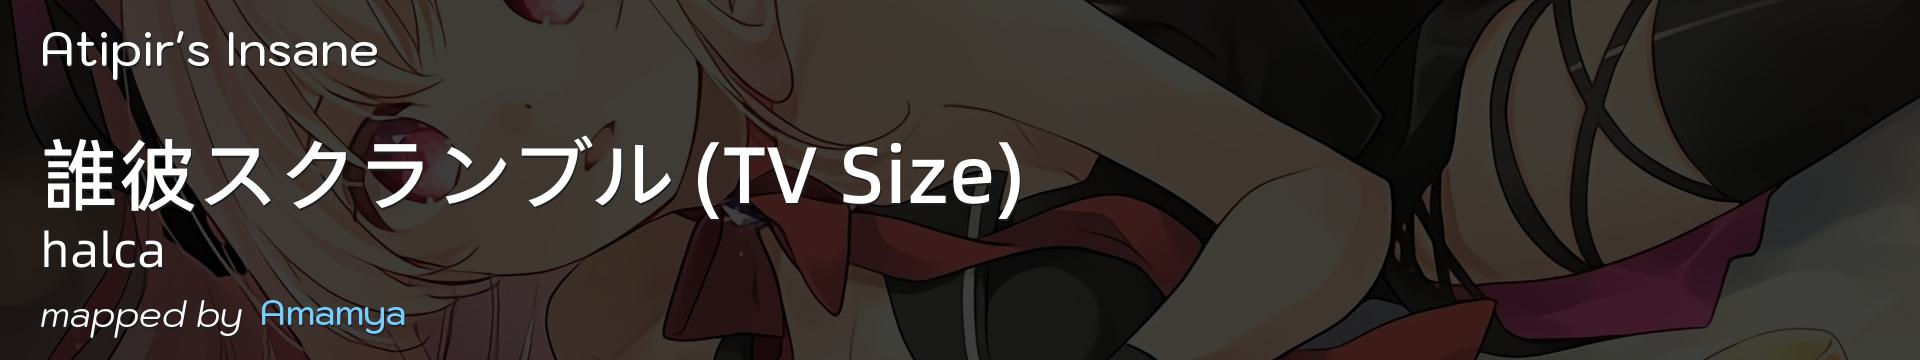
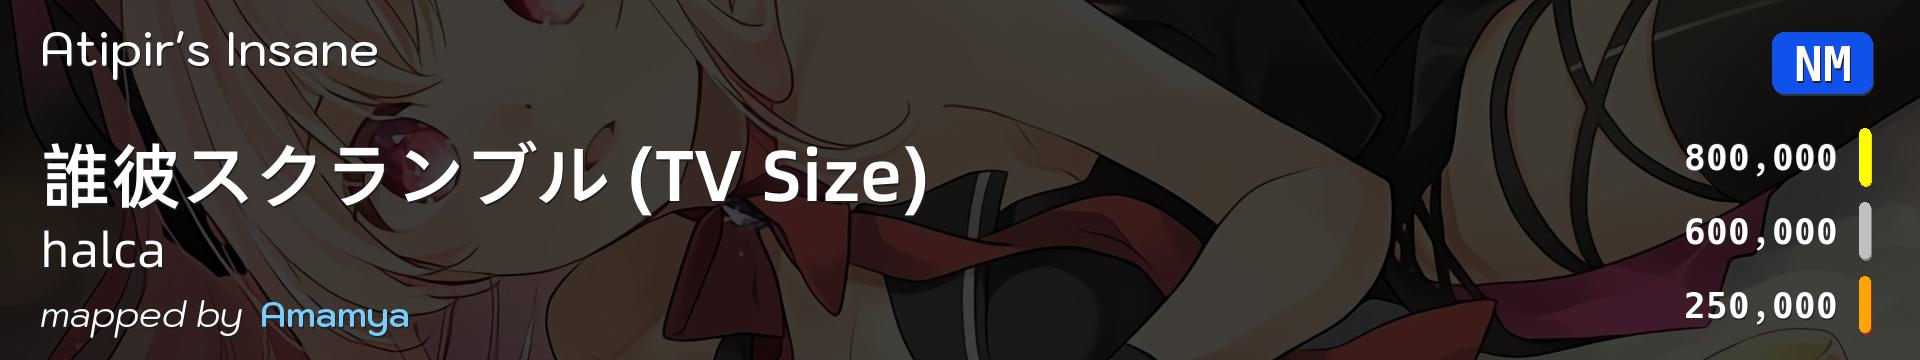
modify style

diff --git a/playlists/2000pp过关.html b/playlists/2000pp过关.html
@@ -1,4 +1,3 @@
-
 <html>
   <head><meta charset="utf-8"><title>2000pp过关</title></head>
   <link rel="stylesheet" type="text/css" href="style.css"/>
@@ -11,16 +10,6 @@
       <th>MODE</th>
       <th>SID</th>
       <th>Beatmap Info</th>
-      <th>Star</th>
-      <th>CS</th>
-      <th>HP</th>
-      <th>AR</th>
-      <th>OD</th>
-      <th>BPM</th>
-      <th>LEN</th>
-      <th>CIR</th>
-      <th>SLD</th>
-      <th>SPN</th>
       <th>NOTES</th>
     </tr>
   </thead>
@@ -30,182 +19,82 @@
       <td>3938363</td>
       <td>osu</td>
       <td>1909442</td>
-      <td><a href="https://osu.ppy.sh/beatmapsets/1909442#osu/3938363"><img src="./2000pp过关-covers/1-3938363.jpg" alt="1-3938363.jpg" height="90"/></a></td>
-      <td>4.47</td>
-      <td>3.8</td>
-      <td>5.0</td>
-      <td>9.0</td>
-      <td>7.5</td>
-      <td>181.00</td>
-      <td>101</td>
-      <td>175</td>
-      <td>169</td>
-      <td>0</td>
-      <td>【综合】</td>
+      <td><a href="https://osu.ppy.sh/beatmapsets/1909442#osu/3938363"><img src="./2000pp过关-covers/1-3938363.jpg" alt="1-3938363.jpg" height="118"/></a></td>
+      <td>综合</td>
     </tr>
     <tr>
       <td>2</td>
       <td>2953158</td>
       <td>osu</td>
       <td>1435128</td>
-      <td><a href="https://osu.ppy.sh/beatmapsets/1435128#osu/2953158"><img src="./2000pp过关-covers/2-2953158.jpg" alt="2-2953158.jpg" height="90"/></a></td>
-      <td>4.58</td>
-      <td>4.3</td>
-      <td>5.5</td>
-      <td>9.0</td>
-      <td>8.0</td>
-      <td>167.00</td>
-      <td>92</td>
-      <td>190</td>
-      <td>120</td>
-      <td>1</td>
-      <td>【综合】</td>
+      <td><a href="https://osu.ppy.sh/beatmapsets/1435128#osu/2953158"><img src="./2000pp过关-covers/2-2953158.jpg" alt="2-2953158.jpg" height="118"/></a></td>
+      <td>综合</td>
     </tr>
     <tr>
       <td>3</td>
       <td>962800</td>
       <td>osu</td>
       <td>444335</td>
-      <td><a href="https://osu.ppy.sh/beatmapsets/444335#osu/962800"><img src="./2000pp过关-covers/3-962800.jpg" alt="3-962800.jpg" height="90"/></a></td>
-      <td>4.87</td>
-      <td>4.0</td>
-      <td>6.5</td>
-      <td>9.0</td>
-      <td>8.0</td>
-      <td>200.00</td>
-      <td>89</td>
-      <td>174</td>
-      <td>185</td>
-      <td>1</td>
-      <td>【跳】</td>
+      <td><a href="https://osu.ppy.sh/beatmapsets/444335#osu/962800"><img src="./2000pp过关-covers/3-962800.jpg" alt="3-962800.jpg" height="118"/></a></td>
+      <td>跳</td>
     </tr>
     <tr>
       <td>4</td>
       <td>580225</td>
       <td>osu</td>
       <td>235477</td>
-      <td><a href="https://osu.ppy.sh/beatmapsets/235477#osu/580225"><img src="./2000pp过关-covers/4-580225.jpg" alt="4-580225.jpg" height="90"/></a></td>
-      <td>4.31</td>
-      <td>4.0</td>
-      <td>6.0</td>
-      <td>8.2</td>
-      <td>7.2</td>
-      <td>128.01</td>
-      <td>312</td>
-      <td>660</td>
-      <td>335</td>
-      <td>1</td>
-      <td>【低BPM爆发】</td>
+      <td><a href="https://osu.ppy.sh/beatmapsets/235477#osu/580225"><img src="./2000pp过关-covers/4-580225.jpg" alt="4-580225.jpg" height="118"/></a></td>
+      <td>低BPM爆发</td>
     </tr>
     <tr>
       <td>5</td>
       <td>677872</td>
       <td>osu</td>
       <td>292301</td>
-      <td><a href="https://osu.ppy.sh/beatmapsets/292301#osu/677872"><img src="./2000pp过关-covers/5-677872.jpg" alt="5-677872.jpg" height="90"/></a></td>
-      <td>4.31</td>
-      <td>4.0</td>
-      <td>6.0</td>
-      <td>9.0</td>
-      <td>7.0</td>
-      <td>200.00</td>
-      <td>233</td>
-      <td>309</td>
-      <td>502</td>
-      <td>2</td>
-      <td>【高BPM爆发】</td>
+      <td><a href="https://osu.ppy.sh/beatmapsets/292301#osu/677872"><img src="./2000pp过关-covers/5-677872.jpg" alt="5-677872.jpg" height="118"/></a></td>
+      <td>高BPM爆发</td>
     </tr>
     <tr>
       <td>6</td>
       <td>3741717</td>
       <td>osu</td>
       <td>1818779</td>
-      <td><a href="https://osu.ppy.sh/beatmapsets/1818779#osu/3741717"><img src="./2000pp过关-covers/6-3741717.jpg" alt="6-3741717.jpg" height="90"/></a></td>
-      <td>4.81</td>
-      <td>4.0</td>
-      <td>5.5</td>
-      <td>9.0</td>
-      <td>7.5</td>
-      <td>177.00</td>
-      <td>91</td>
-      <td>214</td>
-      <td>150</td>
-      <td>2</td>
-      <td>【综合串】</td>
+      <td><a href="https://osu.ppy.sh/beatmapsets/1818779#osu/3741717"><img src="./2000pp过关-covers/6-3741717.jpg" alt="6-3741717.jpg" height="118"/></a></td>
+      <td>综合串</td>
     </tr>
     <tr>
       <td>7</td>
       <td>4419204</td>
       <td>osu</td>
       <td>2104327</td>
-      <td><a href="https://osu.ppy.sh/beatmapsets/2104327#osu/4419204"><img src="./2000pp过关-covers/7-4419204.jpg" alt="7-4419204.jpg" height="90"/></a></td>
-      <td>4.87</td>
-      <td>3.0</td>
-      <td>4.0</td>
-      <td>9.0</td>
-      <td>8.0</td>
-      <td>223.00</td>
-      <td>37</td>
-      <td>99</td>
-      <td>68</td>
-      <td>0</td>
-      <td>【高BPM跳】</td>
+      <td><a href="https://osu.ppy.sh/beatmapsets/2104327#osu/4419204"><img src="./2000pp过关-covers/7-4419204.jpg" alt="7-4419204.jpg" height="118"/></a></td>
+      <td>高BPM跳</td>
     </tr>
     <tr>
       <td>8</td>
       <td>4213971</td>
       <td>osu</td>
       <td>2023140</td>
-      <td><a href="https://osu.ppy.sh/beatmapsets/2023140#osu/4213971"><img src="./2000pp过关-covers/8-4213971.jpg" alt="8-4213971.jpg" height="90"/></a></td>
-      <td>4.49</td>
-      <td>4.0</td>
-      <td>4.5</td>
-      <td>9.0</td>
-      <td>8.0</td>
-      <td>128.00</td>
-      <td>86</td>
-      <td>121</td>
-      <td>190</td>
-      <td>1</td>
-      <td>【light alt/手控】</td>
+      <td><a href="https://osu.ppy.sh/beatmapsets/2023140#osu/4213971"><img src="./2000pp过关-covers/8-4213971.jpg" alt="8-4213971.jpg" height="118"/></a></td>
+      <td>light alt/手控</td>
     </tr>
     <tr>
       <td>9</td>
       <td>4221005</td>
       <td>osu</td>
       <td>2025917</td>
-      <td><a href="https://osu.ppy.sh/beatmapsets/2025917#osu/4221005"><img src="./2000pp过关-covers/9-4221005.jpg" alt="9-4221005.jpg" height="90"/></a></td>
-      <td>4.30</td>
-      <td>3.8</td>
-      <td>5.0</td>
-      <td>9.0</td>
-      <td>8.0</td>
-      <td>124.00</td>
-      <td>230</td>
-      <td>441</td>
-      <td>388</td>
-      <td>8</td>
-      <td>【跳切/light alt/手控】</td>
+      <td><a href="https://osu.ppy.sh/beatmapsets/2025917#osu/4221005"><img src="./2000pp过关-covers/9-4221005.jpg" alt="9-4221005.jpg" height="118"/></a></td>
+      <td>跳切/light alt/手控</td>
     </tr>
     <tr>
       <td>10</td>
       <td>3819271</td>
       <td>osu</td>
       <td>1803693</td>
-      <td><a href="https://osu.ppy.sh/beatmapsets/1803693#osu/3819271"><img src="./2000pp过关-covers/10-3819271.jpg" alt="10-3819271.jpg" height="90"/></a></td>
-      <td>4.74</td>
-      <td>4.0</td>
-      <td>4.0</td>
-      <td>8.0</td>
-      <td>8.0</td>
-      <td>150.00</td>
-      <td>88</td>
-      <td>361</td>
-      <td>107</td>
-      <td>1</td>
-      <td>【魔王曲】</td>
+      <td><a href="https://osu.ppy.sh/beatmapsets/1803693#osu/3819271"><img src="./2000pp过关-covers/10-3819271.jpg" alt="10-3819271.jpg" height="118"/></a></td>
+      <td>魔王曲</td>
     </tr>
   </tbody>
 </table>
   </body>
-</html>.
+</html>

diff --git a/osu_playlist_generator.py b/osu_playlist_generator.py
@@ -2,10 +2,11 @@ from clayutil.futil import OsuPlaylist
 
 oauth = "../osu.properties"
 playlist = "./playlists/2000pp过关.properties"
-o0 = OsuPlaylist(oauth)
+o0 = OsuPlaylist(oauth, True, False)
 font_difficulty = "../Kodchasan-Medium.ttf"
-font_title = "../AlibabaPuHuiTi-3-65-Medium.ttf"
+font_title = "../AlibabaPuHuiTi-3-75-SemiBold.ttf"
 font_artist = "../AlibabaPuHuiTi-3-55-Regular.ttf"
 font_mapped_by = "../Kodchasan-Italic.ttf"
-font_mapper = "../Kodchasan-Medium.ttf"
-o0.generate(playlist, font_difficulty, font_title, font_artist, font_mapped_by, font_mapper)
+font_mapper = "../Kodchasan-SemiBold.ttf"
+font_mono = "../HackNerdFontMono-Bold.ttf"
+o0.generate(playlist, font_difficulty, font_title, font_artist, font_mapped_by, font_mapper, font_mono)
